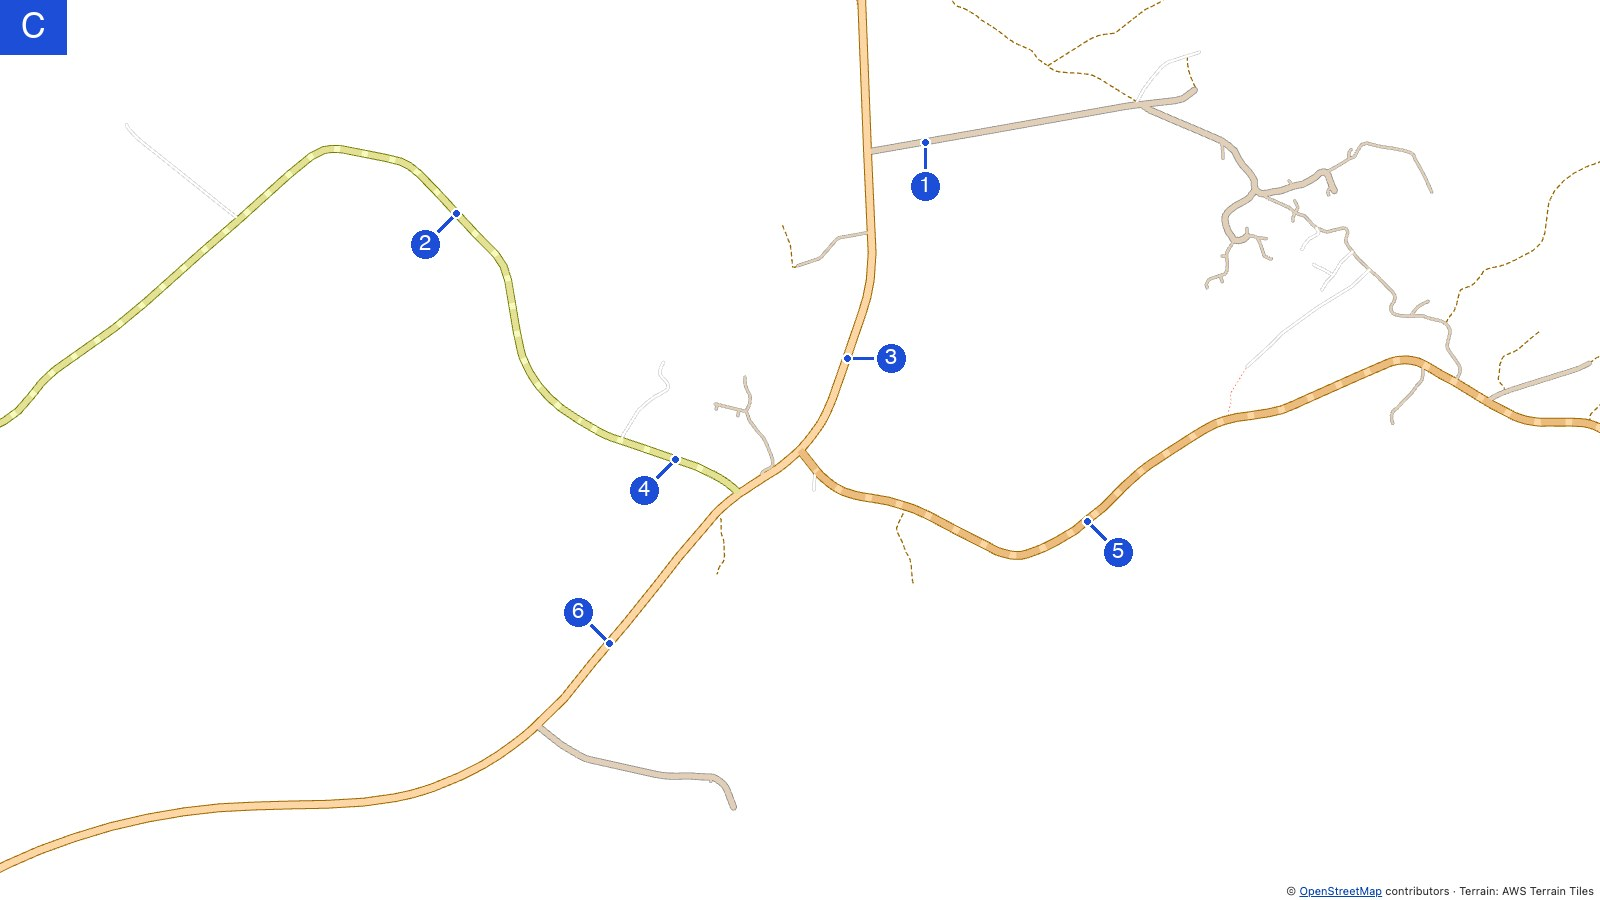
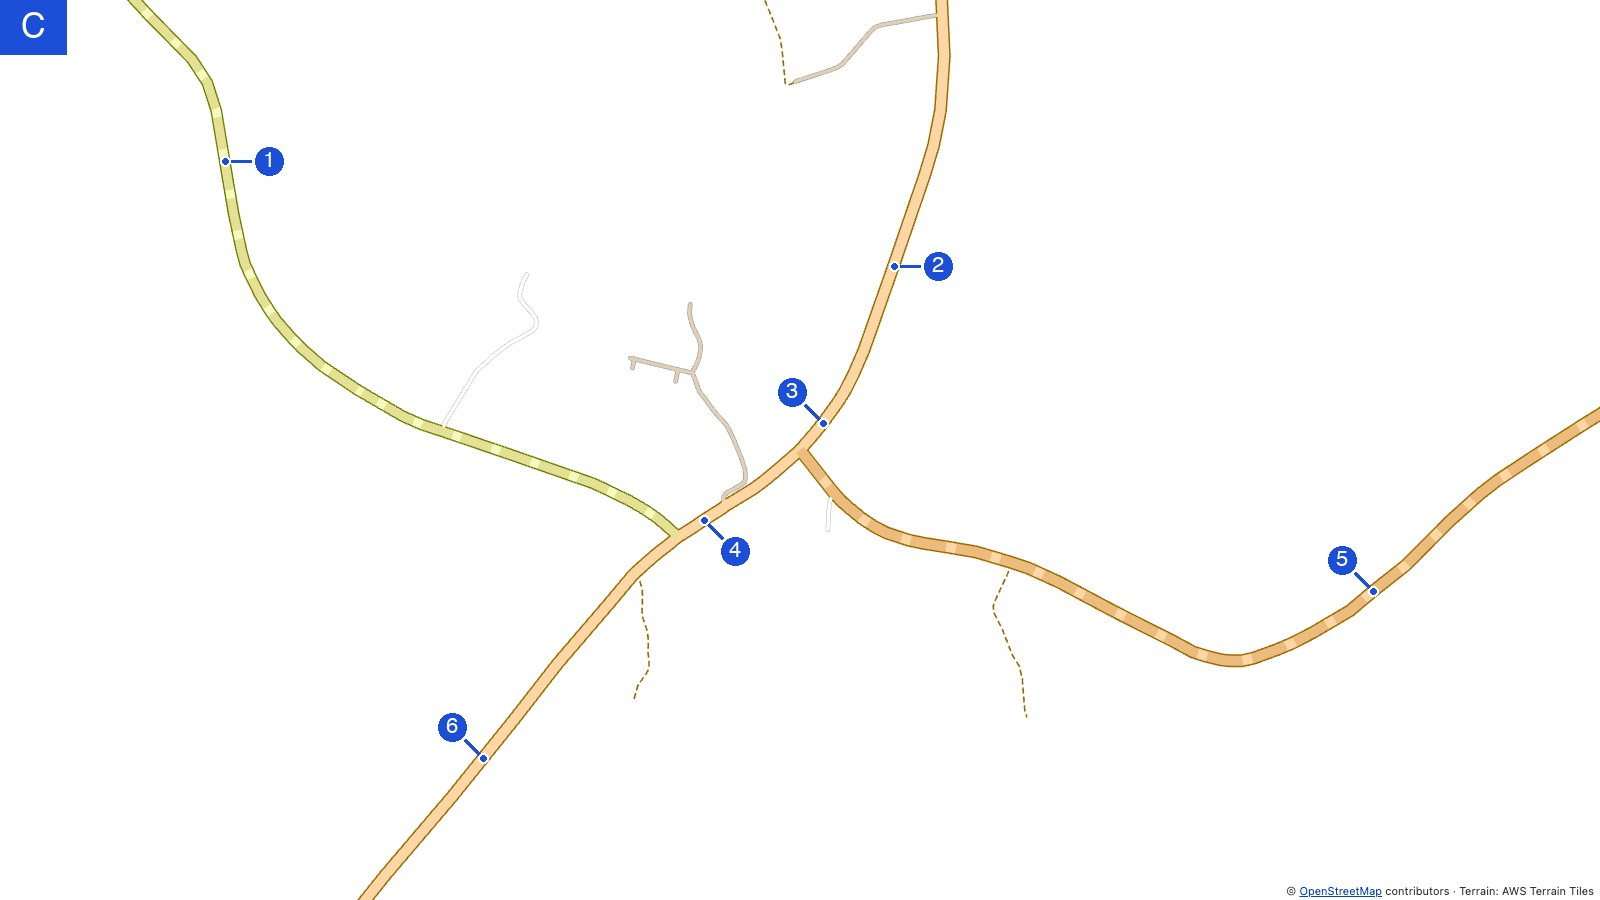
Reader test: Iceland at zoom 15, so every numbered road shows its style's pattern

diff --git a/research/reader-test/README.md b/research/reader-test/README.md
@@ -8,7 +8,7 @@ Five pictures, A to E: five different places, each drawn in one of the five styl
 
 - **A different place per picture**, with its own answers, so nobody can carry an answer over from one picture to the next.
 - **Mixed order**: the letters do not follow the style numbers.
-- **Three or four unpaved roads per picture**, so nobody can guess a fixed number.
+- **Two to four unpaved roads per picture**, so nobody can guess a fixed number.
 - **Same white background** for all, so the background does not make one picture harder.
 
 Do not tell people which style is which, or what the article proposes, before they answer.
@@ -21,13 +21,13 @@ Limit: each place has its own roads, so some pictures are easier than others wha
 |---|---|---|---|---|---|
 | A | Bolivia, zoom 15 | 4. Dashed casing | **1, 4, 5, 6** | 2, 3 | 1 tertiary unpaved; 2 trunk asphalt; 3 trunk asphalt; 4 trunk compacted; 5 unclassified ground (Off-road); 6 tertiary ground (Off-road) |
 | B | Nepal, zoom 15 | 1. Grain fill | **1, 5, 6** | 2, 3, 4 | 1 primary gravel (Off-road); 2 primary concrete; 3 primary concrete; 4 unclassified asphalt; 5 primary gravel (Off-road); 6 unclassified unpaved |
-| C | Iceland, zoom 14 | 5. Dashed fill, full width | **1, 2, 4, 5** | 3, 6 | 1 tertiary gravel; 2 secondary compacted; 3 primary asphalt; 4 secondary compacted; 5 primary compacted; 6 primary asphalt |
+| C | Iceland, zoom 15 | 5. Dashed fill, full width | **1, 5** | 2, 3, 4, 6 | 1 secondary compacted; 2 primary asphalt; 3 primary asphalt; 4 primary asphalt; 5 primary compacted; 6 primary asphalt |
 | D | Namibia, zoom 16 | 2. Dashed centre line | **1, 3, 4, 5** | 2, 6 | 1 secondary gravel (Off-road); 2 unclassified; 3 unclassified (Off-road); 4 residential; 5 primary gravel; 6 primary asphalt |
 | E | Australia, zoom 15 | 3. Dashed fill | **1, 3, 6** | 2, 4, 5 | 1 secondary gravel; 2 secondary asphalt; 3 unclassified unpaved; 4 secondary asphalt; 5 secondary asphalt; 6 unclassified gravel |
 
 Generated from [labels.json](labels.json); if the pictures are rebuilt, regenerate this table too.
 
-Iceland (C) is at zoom 14, where tertiary and minor roads are under 6 pixels wide and show the plain low-zoom tint instead of the pattern, as on a real map; its primary and secondary roads keep the pattern. Nepal (B) uses a frame 3 km south of its spot centre, found by [find-frame.mjs](find-frame.mjs), because the centre has too few roads at zoom 15.
+All pictures are at zoom 15 or more, so every numbered road shows its style's pattern (below 6 pixels of road width a style becomes a plain tint, which would mix two signals). Nepal (B) uses a frame 3 km south of its spot centre, found by [find-frame.mjs](find-frame.mjs), because the centre has too few roads at zoom 15.
 
 ## How to run it
 
